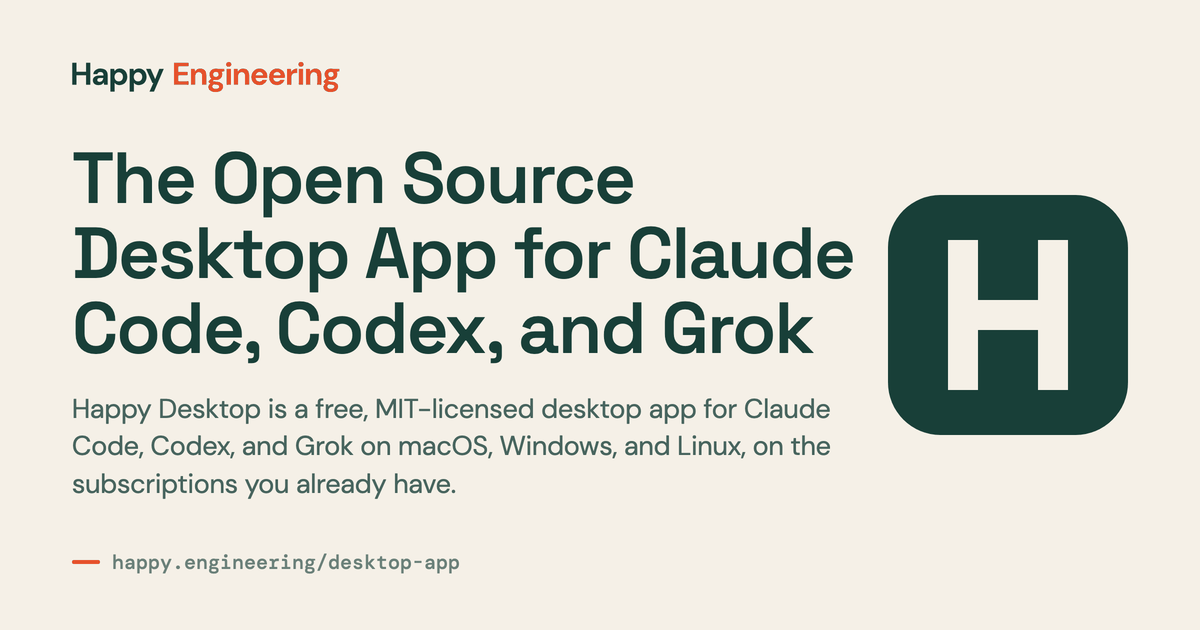
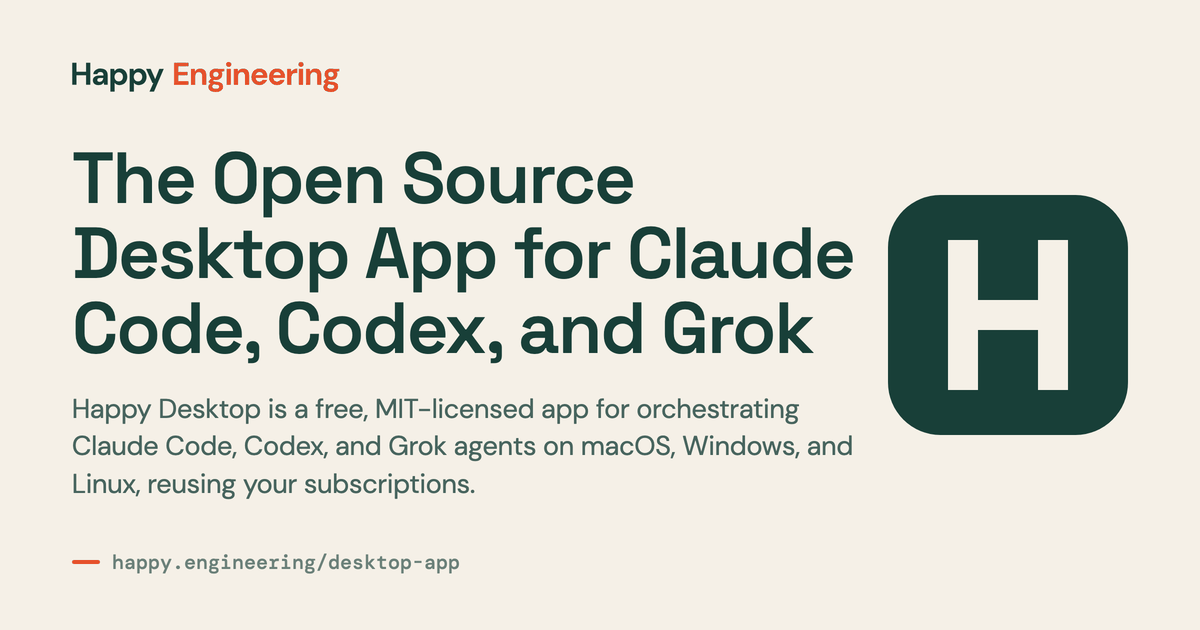
Position Happy as a harness for orchestrating coding agents, not a phone remote
One sentence, in DESIGN.md and reused everywhere that says what Happy is: "Happy is an
open-source harness for orchestrating coding agents: Claude, Codex, and Grok in one desktop app,
reusing the subscriptions you already pay for."

- The homepage title, description, og/twitter description and JSON-LD use it. The first feature
  is now "Multi-provider", and the second "Reuse your subscriptions".
- llms.txt opens with orchestration. The phone app is one part, and the original CLI is the phone
  remote, in maintenance mode.
- Welcome, How It Works, Desktop App, Mobile App and the Remote Control comparison lead the same
  way. The mobile page calls itself the phone half of Happy.
- "One session" is no longer a selling point. Where switching models matters, it is stated as a
  fact.
- The original CLI docs are titled "Original Happy CLI Docs". Their notice points to /welcome/,
  and their descriptions say they describe the CLI.
- Regenerated the OG cards for welcome, how-it-works, models, desktop-app and mobile-app.

Changed region(s): [[0.0617, 0.6333, 0.7092, 0.7238], [0.0617, 0.754, 0.4008, 0.8143]]

diff --git a/src/documents.ts b/src/documents.ts
@@ -55,14 +55,14 @@ const happyDocuments: DocumentDefinition[] = [
     path: '',
     sourcePath: '/content/docs/index.mdx',
     title: 'Welcome',
-    description: 'Learn what Happy does and start controlling coding agents from anywhere.',
+    description: 'The original Happy CLI: control Claude Code and Codex on your computer from your phone. In maintenance mode; Happy today is the desktop harness.',
     group: 'Start here',
   },
   {
     path: 'quick-start',
     sourcePath: '/content/docs/quick-start.mdx',
     title: 'Quick Start',
-    description: 'Install Happy, pair your phone, and start your first coding session.',
+    description: 'Install the original Happy CLI, pair your phone, and start a Claude Code session. For Happy today, see the Happy Desktop Quick Start.',
     group: 'Start here',
   },
   {
@@ -111,6 +111,7 @@ const happyDocuments: DocumentDefinition[] = [
     path: 'features',
     sourcePath: '/content/docs/features/index.mdx',
     title: 'All Features',
+    pageTitle: 'All Features of Happy Coder — Original Happy CLI Docs',
     description: 'Explore Happy’s core architecture and mobile workflow features.',
     group: 'Features',
   },
@@ -132,6 +133,7 @@ const happyDocuments: DocumentDefinition[] = [
     path: 'features/voice-coding-with-claude-code',
     sourcePath: '/content/docs/features/voice-coding-with-claude-code.mdx',
     title: 'Voice Coding',
+    pageTitle: 'Why Voice Coding Makes Sense — Original Happy CLI Docs',
     description: 'Use voice to shape ideas and send structured work to your coding agent.',
     group: 'Features',
   },
@@ -186,7 +188,7 @@ const desktopDocuments: DocumentDefinition[] = [
     path: 'welcome',
     sourcePath: '/content/desktop/index.mdx',
     title: 'Welcome',
-    description: 'What Happy Desktop is, what you get, and where to start.',
+    description: 'Happy is an open-source harness for orchestrating Claude, Codex, and Grok agents in one desktop app, reusing your subscriptions: what you get, where to start.',
     group: 'Start here',
   },
   {
@@ -208,7 +210,7 @@ const desktopDocuments: DocumentDefinition[] = [
     path: 'how-it-works',
     sourcePath: '/content/desktop/how-it-works.mdx',
     title: 'How It Works',
-    description: 'The agent runtime on your machine, the app in front of it, and the phone beside it.',
+    description: 'How Happy orchestrates agents: Happy Agent runs the loop, tools, and sandbox for Claude, Codex, and Grok, and Desktop and the phone app are its clients.',
     group: 'Start here',
   },
   {
@@ -232,7 +234,7 @@ const desktopDocuments: DocumentDefinition[] = [
     path: 'models',
     sourcePath: '/content/desktop/models.mdx',
     title: 'Models & Subscriptions',
-    description: 'Claude, Codex, and Grok in one session, on the plans you already pay for.',
+    description: 'Run Claude, Codex, and Grok side by side, reusing the subscriptions you already pay for: subagents on any model, several accounts per provider, and quotas.',
     group: 'Features',
   },
   {
@@ -322,7 +324,7 @@ const desktopDocuments: DocumentDefinition[] = [
     sourcePath: '/content/desktop/desktop-app.mdx',
     title: 'Desktop App for Claude Code & Codex',
     pageTitle: 'Open Source Desktop App for Claude Code, Codex & Grok — Happy',
-    description: 'Happy Desktop is a free, MIT-licensed desktop app for Claude Code, Codex, and Grok on macOS, Windows, and Linux, on the subscriptions you already have.',
+    description: 'Happy Desktop is a free, MIT-licensed app for orchestrating Claude Code, Codex, and Grok agents on macOS, Windows, and Linux, reusing your subscriptions.',
     group: 'Comparisons',
   },
   {
@@ -330,7 +332,7 @@ const desktopDocuments: DocumentDefinition[] = [
     sourcePath: '/content/desktop/mobile-app.mdx',
     title: 'Claude Code on Your Phone',
     pageTitle: 'Claude Code & Codex Mobile App for iPhone and Android — Happy',
-    description: 'Control Claude Code and Codex from your phone with Happy, a free, open source iOS and Android app. Agents run on your computer, end-to-end encrypted.',
+    description: 'The Happy phone app for iPhone and Android: steer the Claude Code, Codex, and Grok agents Happy runs on your computer, end-to-end encrypted. Free, open source.',
     group: 'Comparisons',
   },
   {

diff --git a/index.html b/index.html
@@ -4,9 +4,9 @@
     <meta charset="UTF-8" />
     <meta name="viewport" content="width=device-width, initial-scale=1.0" />
 
-    <title>Happy — Desktop &amp; Mobile App for Claude Code, Codex &amp; Grok</title>
+    <title>Happy — Open-Source Harness to Orchestrate Claude Code, Codex &amp; Grok</title>
     <meta name="application-name" content="Happy" />
-    <meta name="description" content="Happy is the open-source desktop app for Claude Code, Codex, and Grok, with an iOS and Android app to control your coding agents from anywhere." />
+    <meta name="description" content="Happy is an open-source harness for orchestrating coding agents: Claude, Codex, and Grok in one desktop app, reusing the subscriptions you already pay for." />
     <meta name="author" content="Happy Engineering" />
     <meta name="creator" content="Happy Engineering" />
     <meta name="publisher" content="Happy Engineering" />
@@ -22,7 +22,7 @@
     <meta property="og:url" content="https://happy.engineering/" />
     <meta property="og:site_name" content="Happy Engineering" />
     <meta property="og:title" content="Any Model. Your Subscription. Happy Harness." />
-    <meta property="og:description" content="Happy is the open-source desktop app for Claude Code, Codex, and Grok, with an iOS and Android app to control your coding agents from anywhere." />
+    <meta property="og:description" content="Happy is an open-source harness for orchestrating coding agents: Claude, Codex, and Grok in one desktop app, reusing the subscriptions you already pay for." />
     <meta property="og:image" content="https://happy.engineering/og/happy-harness-v24.png" />
     <meta property="og:image:width" content="1200" />
     <meta property="og:image:height" content="630" />
@@ -30,7 +30,7 @@
 
     <meta name="twitter:card" content="summary_large_image" />
     <meta name="twitter:title" content="Any Model. Your Subscription. Happy Harness." />
-    <meta name="twitter:description" content="Happy is the open-source desktop app for Claude Code, Codex, and Grok, with an iOS and Android app to control your coding agents from anywhere." />
+    <meta name="twitter:description" content="Happy is an open-source harness for orchestrating coding agents: Claude, Codex, and Grok in one desktop app, reusing the subscriptions you already pay for." />
     <meta name="twitter:image" content="https://happy.engineering/og/happy-harness-v24.png" />
     <meta name="twitter:image:alt" content="Happy Harness model picker and paired phone, with Free and open source and 23.8k GitHub stars." />
 
@@ -47,7 +47,7 @@
         "name": "Happy",
         "alternateName": ["Happy Desktop", "Happy Coder"],
         "url": "https://happy.engineering/",
-        "description": "Happy is the open-source desktop app for Claude Code, Codex, and Grok, with an iOS and Android app to control your coding agents from anywhere.",
+        "description": "Happy is an open-source harness for orchestrating coding agents: Claude, Codex, and Grok in one desktop app, reusing the subscriptions you already pay for.",
         "applicationCategory": "DeveloperApplication",
         "operatingSystem": ["macOS", "Windows", "Linux", "iOS", "Android"],
         "downloadUrl": "https://github.com/slopus/happy-desktop/releases/latest",

diff --git a/src/siteMetadata.ts b/src/siteMetadata.ts
@@ -36,25 +36,25 @@ export function documentSocialImage(path: string, heading: string): NonNullable<
  * read for /, and scripts/generate-static-routes.mjs in sync.
  */
 export const homepageMetadata: PageMetadata = {
-  title: 'Happy — Desktop & Mobile App for Claude Code, Codex & Grok',
+  title: 'Happy — Open-Source Harness to Orchestrate Claude Code, Codex & Grok',
   description:
-    'Happy is the open-source desktop app for Claude Code, Codex, and Grok, with an iOS and Android app to control your coding agents from anywhere.',
+    'Happy is an open-source harness for orchestrating coding agents: Claude, Codex, and Grok in one desktop app, reusing the subscriptions you already pay for.',
   canonicalPath: '/',
   socialTitle: 'Any Model. Your Subscription. Happy Harness.',
 }
 
 /** The original Happy CLI docs. Kept at their URLs, in maintenance mode. */
 export const docsMetadata: PageMetadata = {
-  title: 'Happy Coder Docs — Claude Code & Codex Mobile App (Original CLI)',
+  title: 'Original Happy CLI Docs (Happy Coder): Claude Code on Your Phone',
   description:
-    'Docs for the original Happy CLI (Happy Coder): Claude Code and Codex on iPhone, Android, or the web. Maintenance mode; new features ship in Happy Desktop.',
+    'Docs for the original Happy CLI (Happy Coder), a phone remote for Claude Code and Codex in your terminal. In maintenance mode; Happy today is a desktop harness.',
   canonicalPath: '/docs/',
 }
 
 export const desktopDocsMetadata: PageMetadata = {
-  title: 'Happy Docs — The Open Source Desktop App for Coding Agents',
+  title: 'Happy Docs — The Open-Source Harness for Orchestrating Coding Agents',
   description:
-    'Install Happy on macOS, Windows, or Linux, run Claude, Codex, and Grok in one harness, pair your phone, and learn permissions, workspaces, and teams.',
+    'Happy is an open-source harness for orchestrating Claude, Codex, and Grok agents in one desktop app, reusing your subscriptions: what you get, where to start.',
   canonicalPath: '/welcome/',
 }
 

diff --git a/src/DesktopApp.tsx b/src/DesktopApp.tsx
@@ -10,12 +10,12 @@ import './happy-one-preview.css'
 
 const features = [
   {
-    title: 'Multi-provider within one session',
-    body: 'Astra, Fable, and Grok in the same session. Switch models in the middle of a task or delegate to subagents.',
+    title: 'Multi-provider',
+    body: 'Astra, Fable, and Grok in one app, each with its vendor\'s own prompts and tools. Give every task the model that fits, and delegate to subagents on any of them.',
   },
   {
-    title: 'Reuse current subscriptions',
-    body: 'Sign in with the Claude, Codex, and Grok plans you already pay for. Happy adds a harness, not another bill.',
+    title: 'Reuse your subscriptions',
+    body: 'Sign in with the Claude, Codex, and Grok subscriptions you already pay for. Happy adds a harness, not another bill.',
   },
   {
     title: 'Open source MIT',

diff --git a/src/DocumentPages.tsx b/src/DocumentPages.tsx
@@ -104,7 +104,8 @@ function LegacyNotice() {
         <strong>Happy is now a desktop app.</strong> The original Happy CLI (<code>happy</code> on npm,
         formerly <code>happy-coder</code>) is in maintenance mode: it keeps working and still gets critical
         fixes, but new features ship in the <a href="/">Happy desktop app</a>. The Happy mobile app works
-        with both.
+        with both. These docs describe the CLI; for Happy today, an open-source harness for orchestrating
+        Claude, Codex, and Grok, start at <a href="/welcome/">Welcome</a>.
       </p>
     </aside>
   )

diff --git a/src/DesktopApp.test.tsx b/src/DesktopApp.test.tsx
@@ -96,8 +96,8 @@ describe('Happy Desktop landing page', () => {
     const items = [...container.querySelectorAll('.one-benefits li')]
 
     expect(items.map((item) => item.querySelector('.one-benefit-title')?.textContent)).toEqual([
-      'Multi-provider within one session',
-      'Reuse current subscriptions',
+      'Multi-provider',
+      'Reuse your subscriptions',
       'Open source MIT',
       'End-to-end encrypted mobile app',
       'Natively multiplayer',

diff --git a/src/products.ts b/src/products.ts
@@ -13,7 +13,7 @@ export interface Product {
 
 export const HAPPY: Product = {
   key: 'happy',
-  label: 'Happy Coder',
+  label: 'Original Happy CLI',
   // The original Happy CLI is in maintenance mode; its home is its docs.
   home: '/docs/',
   docsBase: '/docs',

diff --git a/DESIGN.md b/DESIGN.md
@@ -2,6 +2,16 @@
 
 These rules cover the docs, guides, comparisons, and blog. The homepage has rules of its own; see Landing page below.
 
+## Positioning
+
+> Happy is an open-source harness for orchestrating coding agents: Claude, Codex, and Grok in one desktop app, reusing the subscriptions you already pay for.
+
+Use this sentence, or a shortening of it, wherever a page says what Happy is: the homepage metadata, `llms.txt`, Welcome, and every lede that introduces Happy.
+
+- **Lead with orchestration and multi-provider.** The desktop app comes first. The phone app, servers, and teams are parts of Happy, never the headline. Happy is not a phone remote for Claude Code; that describes only the original Happy CLI.
+- **"Reuse your subscriptions"**, or "the subscriptions you already pay for". Don't mix in "plans", "existing subscriptions", or "the subscriptions you have".
+- **Don't sell "one session".** "Multi-provider", not "several models in one session". Switching models keeps the transcript; say that as a fact where it matters, not as the pitch.
+
 ## Copy
 
 - **No commentary or narration.** Every line must tell the reader something they can use. Cut lines that only describe the page or point at a file:

diff --git a/content/thesis.md b/content/thesis.md
@@ -58,7 +58,7 @@ Approving from your phone is already normal. Doing the work from it is next. We 
 
 ![Happy's model picker, with Codex, Claude and Grok models in one list](/thesis/model-picker.png "Codex, Claude and Grok in one picker")
 
-We're betting on one harness, [Happy Agent](/how-it-works/), under every agent. Each provider gets its vendor's own prompts and tools, verbatim. Everything else is shared: one session, one permission model, one set of tools.
+We're betting on one harness, [Happy Agent](/how-it-works/), under every agent. Each provider gets its vendor's own prompts and tools, verbatim. Everything else is shared: one permission model, one set of tools.
 
 That's what lets you [run Claude, GPT and Grok](/models/) in one app and give each subagent the model it's best with: Grok for X research, Anthropic models for novel problems, GPT Astra for computer use.
 
